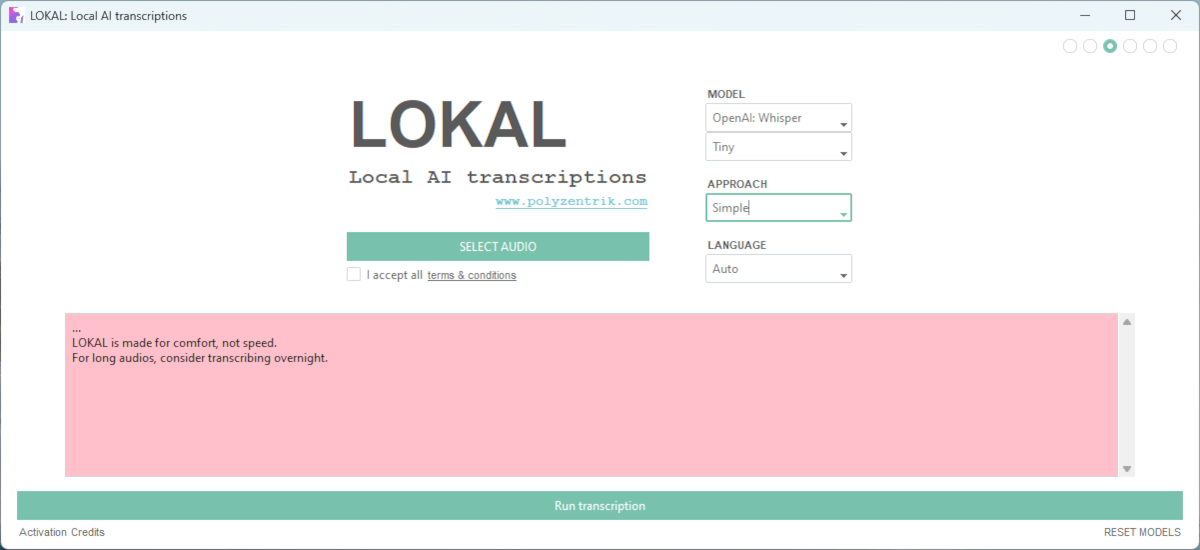
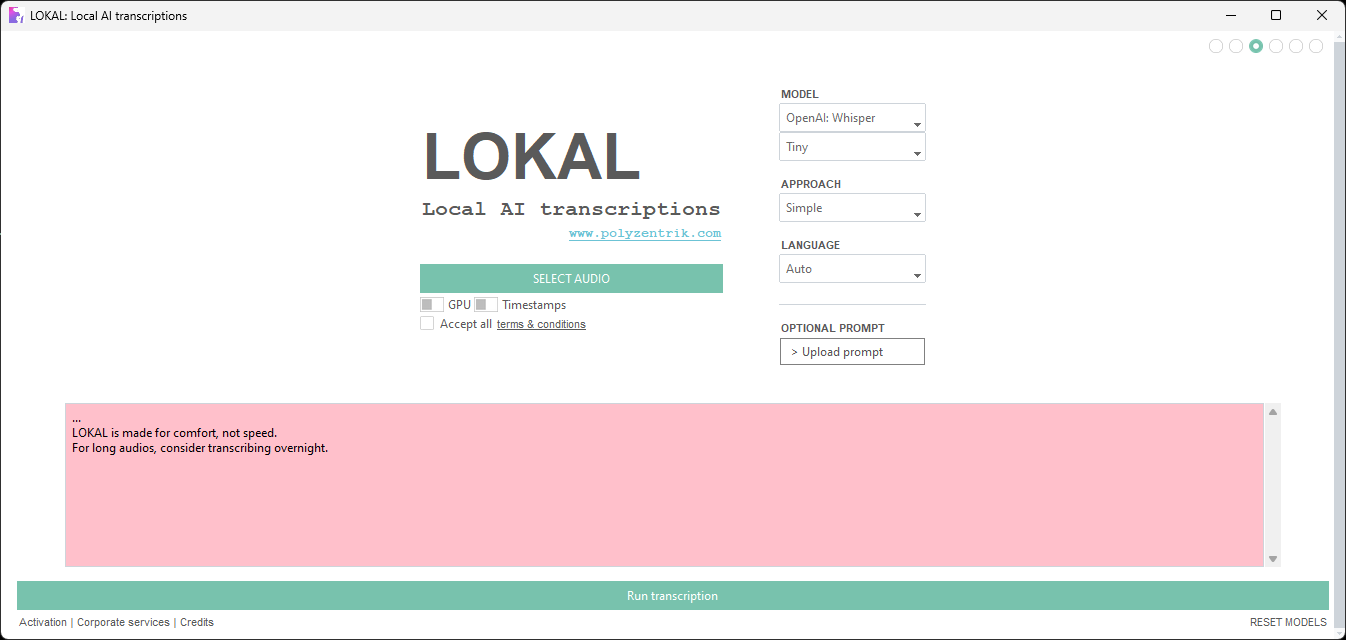
v1.1.0 pre-init: assets, progress bar bug fixes, update README

diff --git a/main.py b/main.py
@@ -643,41 +643,43 @@ def logger(text):
 
     # The "console" on the GUI is not actually a "console"
     # One needs to take and put things into it as required
-    warnings = ['set_audio_backend', 'torchaudio backend is switched to', 'torchvision is not available', 'HF_HUB_DISABLE_SYMLINKS_WARNING']
-    if any(warning in text for warning in warnings):  # Annoying warnings most users do not need
+    warnings = ['set_audio_backend',
+                'torchaudio backend is switched to',
+                'torchvision is not available',
+                'To support symlinks on Windows,',
+                'HF_HUB_DISABLE_SYMLINKS_WARNING']
+    
+    if any(warning in text for warning in warnings):  # Ignore annoying warnings that most users do not need
         pass
+    
+    elif '%' in text:  # Take a special approach to render progress bars
 
-    elif '%' in text:  # Progress bars
-
-        # FASTER WHISPER DOWNLOADS
         fs_download_terms = ['vocabulary.txt', 'tokenizer.json', 'config.json', 'model.bin']
-        if any(term in text for term in fs_download_terms):
+        pyannote_terms = ['segmentation', 'embeddings', 'diarization']
+        
+        if any(term in text for term in fs_download_terms):  # Faster whisper downloads (uses tqdm)
 
-            # Flag last log before download start
-            # Delete any lines after
+            # Flag last log before download start & delete lines after
             bool = True
             while bool is True:
                 console_frame.delete('end-1l', END)
                 if console_frame.get("end-1c linestart", "end-1c lineend").startswith('If model not already on local memory,'):
                     bool = False
 
-            # Write the update
-            if 'model.bin' in text:
+            if 'model.bin' in text:  # Rewrite progress bar only for main model file
                 text = text.replace('\n', '').strip()
                 text = f'\n\nDownloading...\n{text}'
                 console_frame.insert(END, text)
-            else:
-                print('\n\nDownloading...\n')
+            else:  # For all other downloads, just declare that something is downloading
+                text = '\n\nDownloading...\n'
+                console_frame.insert(END, text)
 
-        # PYANNOTE (RICH) BARS
-        pyannote_terms = ['segmentation', 'embeddings', 'diarization']
-        if any(term in text for term in pyannote_terms):
+        elif any(term in text for term in pyannote_terms):  # Pyannote bars (uses rich)
             console_frame.delete('end-2l', END)
             console_frame.insert('end', '\n{}'.format(text))
 
-        # TREAT ANYTHING ELSE AS A NORMAL UPDATE
-        # Better to render a progress bar badly than jam the log
-        else:
+        else:  # Default: Normal Whisper (tqdm, but much simpler than faster whisper)
+            console_frame.delete('end-2l', 'end-1l')
             console_frame.insert(INSERT, text)
     else:
         console_frame.insert(INSERT, text)

diff --git a/README.md b/README.md
@@ -37,9 +37,18 @@ LOKAL offers users a number of choices. It's a long list, but once you open the 
 
 ### Required selections
 
-#### Audio selection
+#### Main selection 
 * *Select audio.* Press select audio to choose the audio to transcribe. 
-  * Currently, only *.wav* files are supported. If you do not see your audio, make sure it's in *.wav* format.
+  * If you do NOt have FFmpeg installed on your computer, only *.wav* files are supported.
+  * If you have FFmpeg, most formats are supported (click the "all files" dropdown on the browser window if you do not see your file).
+
+#### GPU & Timestamps
+* *GPU* Enable GPU mode. 
+  * Turn on to enable settings applicable to GPUs.
+  * If you do not have a GPU, leave the button as it is. LOKAL defaults to settings applicable to regular CPUs.
+* *Timestamps*. Enable timestamps
+  * Turn on to enable timestamps on final transcript.
+  * If you do not need timestamps, leave the button as it is. LOKAL defaults to a transcript without timestamps due to historical reasons (it started as a research tool and timestamps can be very annoying in this context).
 
 #### T&Cs
 * *Terms and conditions.* Use the checkbox to agree to the terms and conditions of usage.
@@ -68,6 +77,11 @@ LOKAL offers users a number of choices. It's a long list, but once you open the 
 
 ### Optional selections
 Optional hyper-parameters appear and dissapear depending on user selections. All such fields have a preset value. There is no need to even touch them. That said, users can also adjust them at will.
+
+* *OPTIONAL PROMPT*
+  * This option is shown when the user selects the original 'OpenAI: Whisper' family of models.
+  * It can be used to upload a text file containing terms that the model might struggle to identify, such as names, names of places, jargon, and acronyms. 
+  * Prompts are not infalible. They can help quite a bit, but they are not as effective as fine-tuning a model for a specific sector/industry.
 
 * *Ignore short segments.* 
   * Appears when users choose 'segmentation'.
